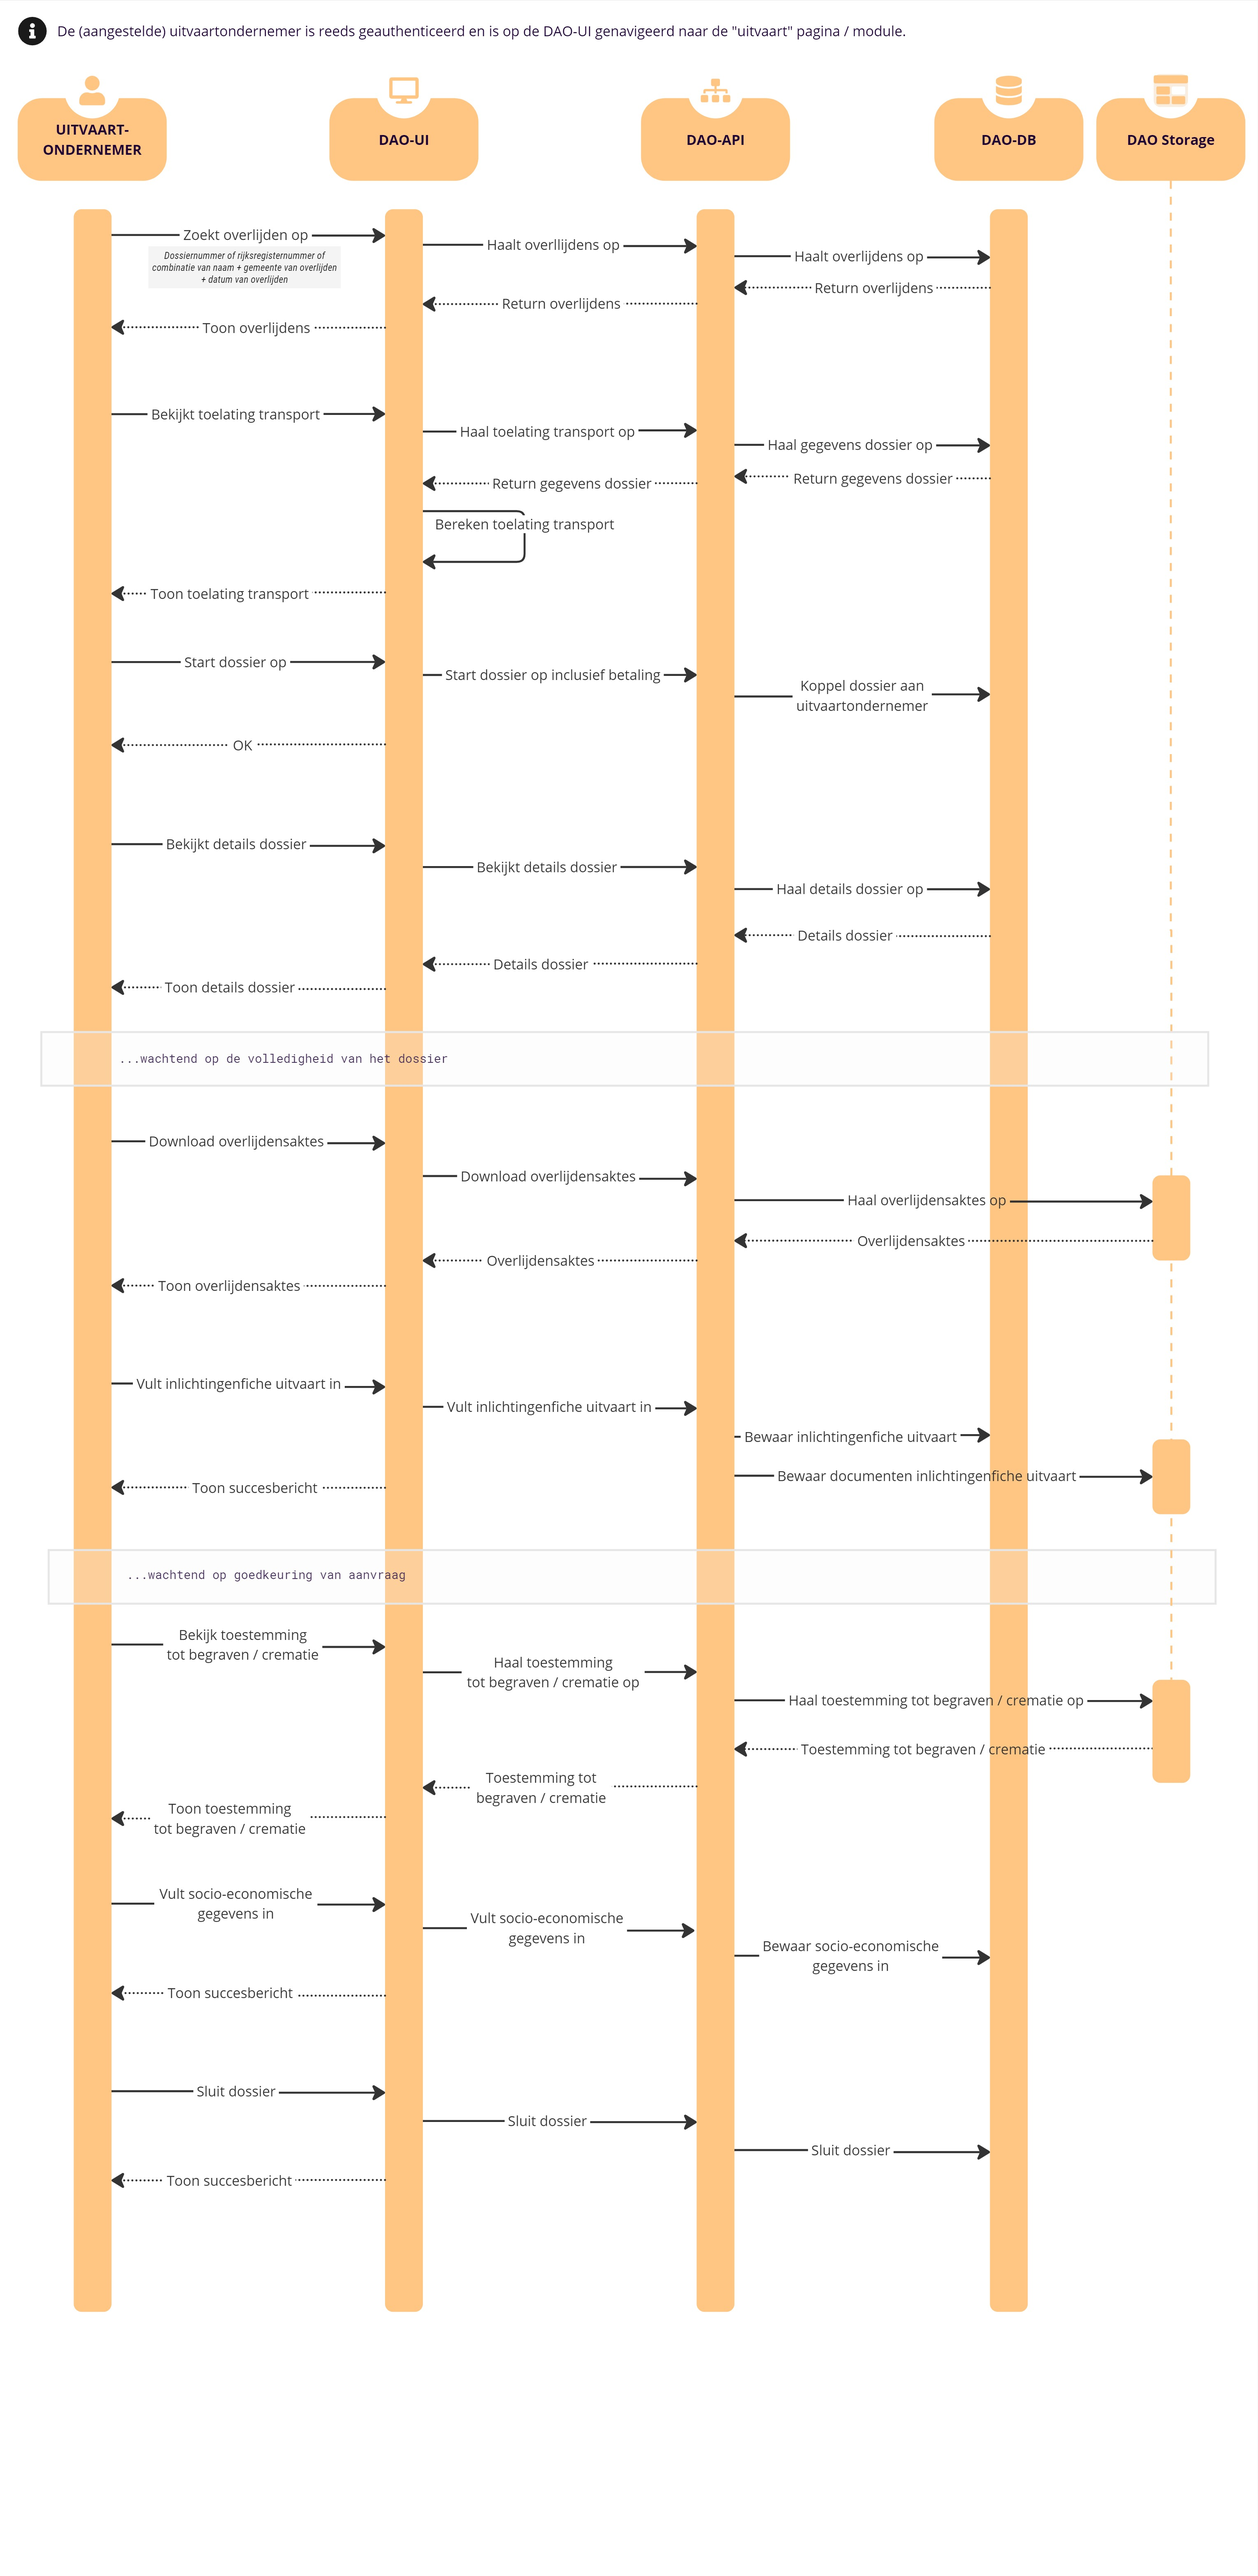
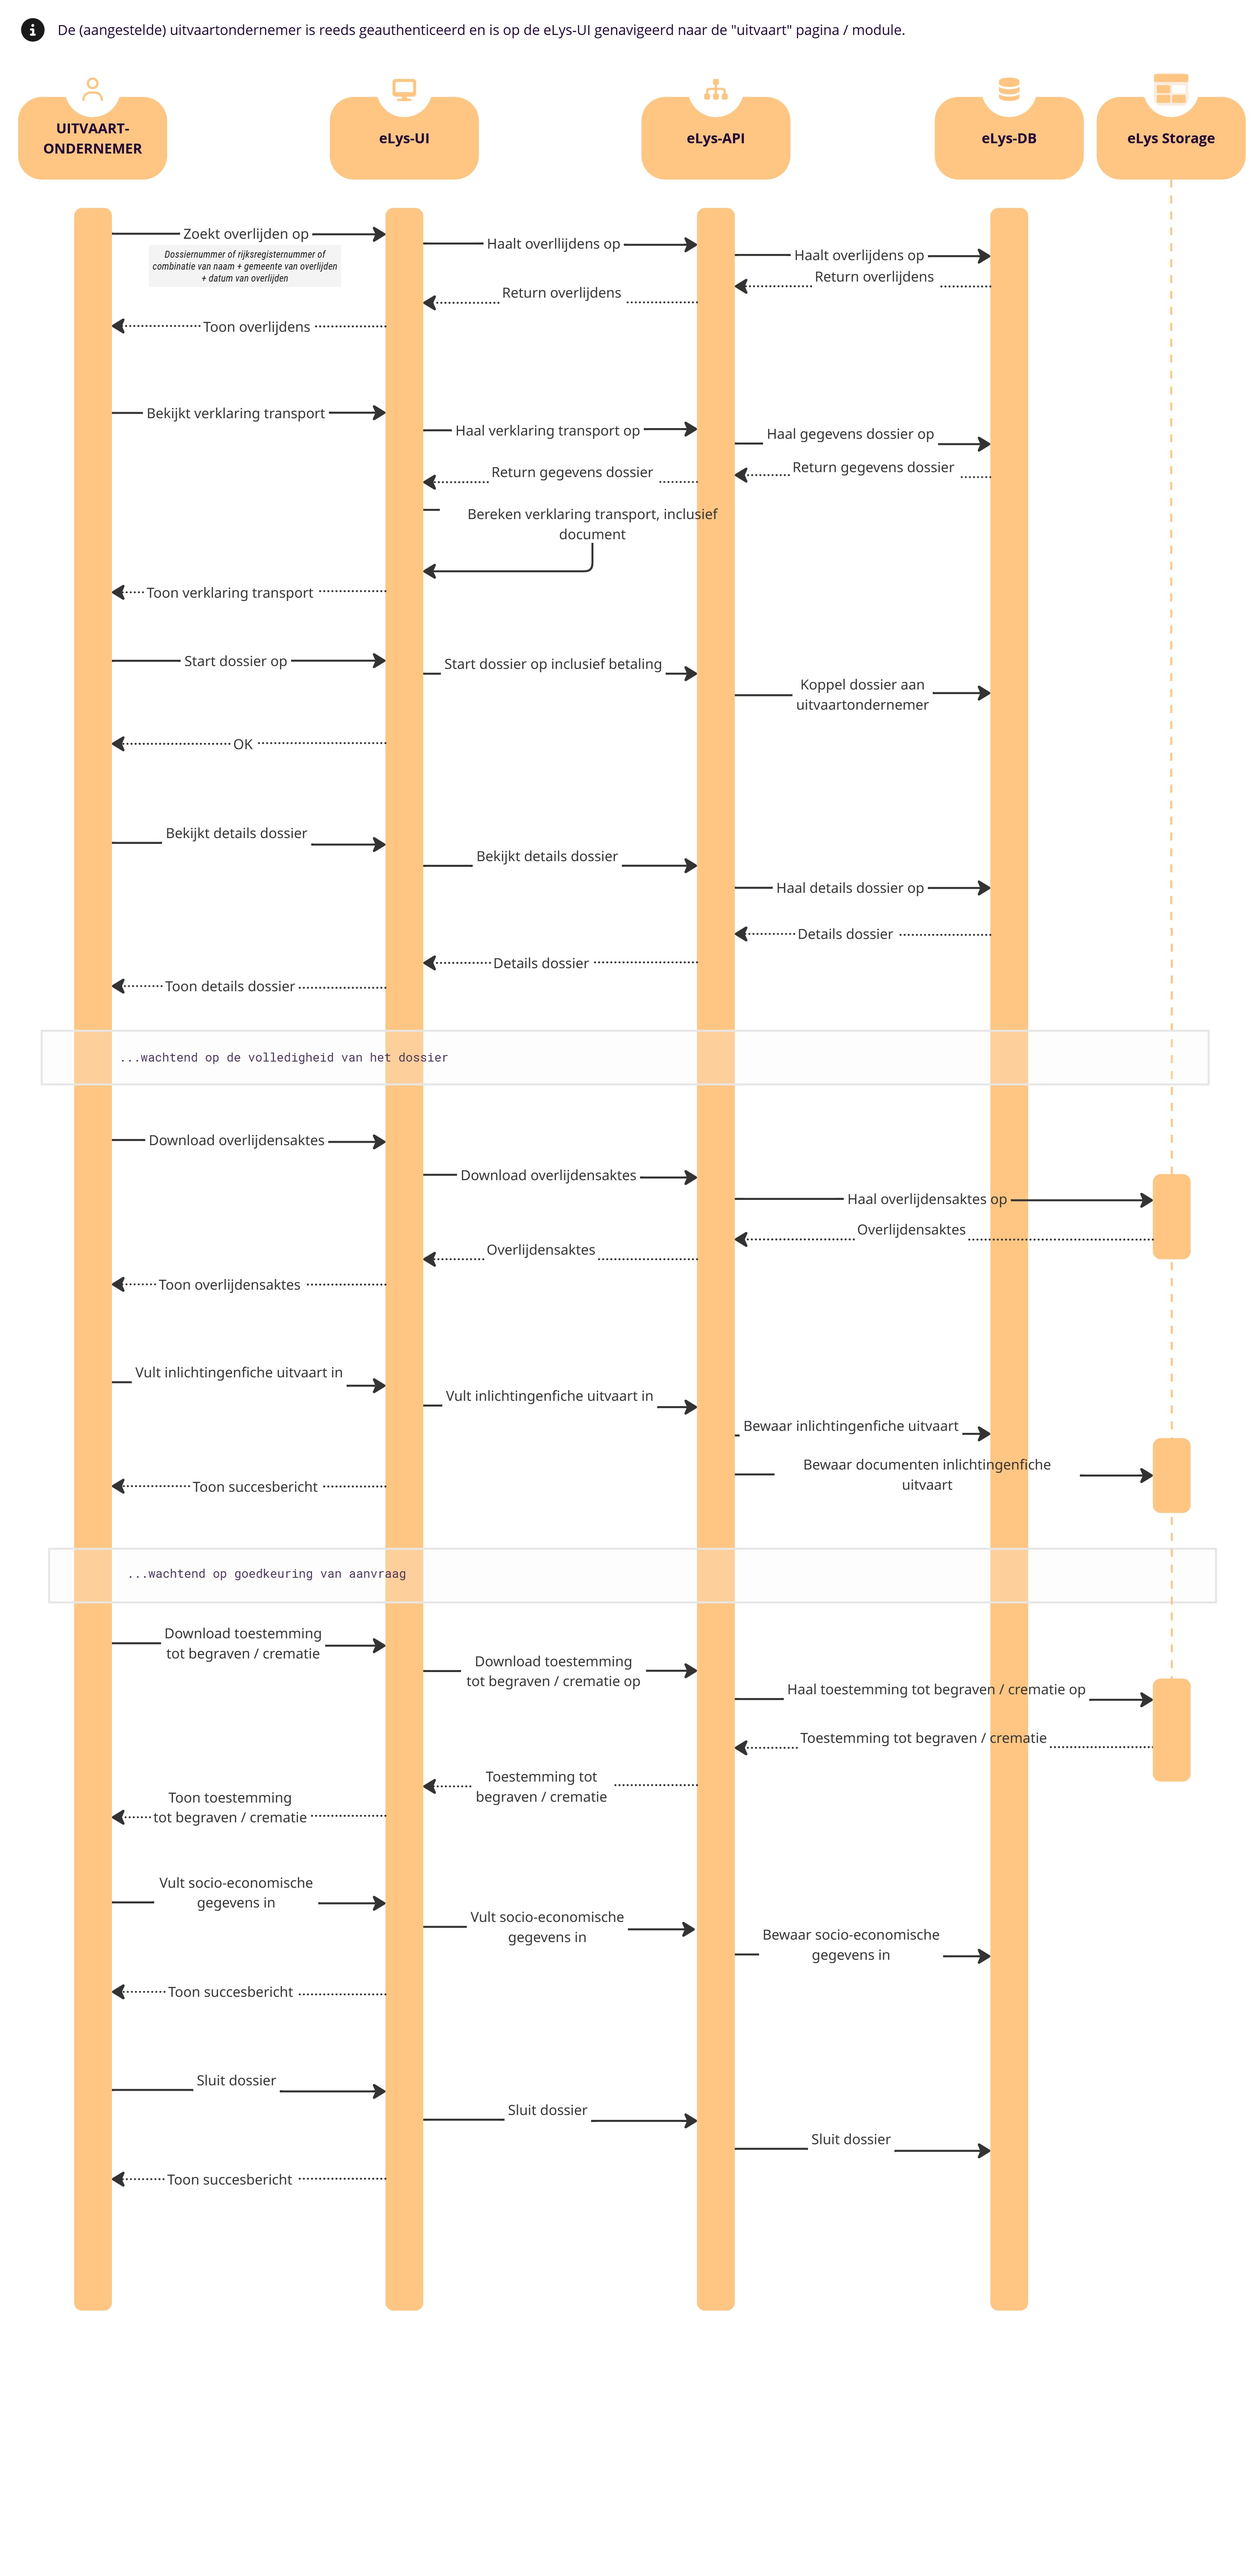
update context pagina

diff --git a/uitvaart/doc/userstories/context.md b/uitvaart/doc/userstories/context.md
@@ -16,14 +16,27 @@ Dit context diagram toont een overzicht van de verschillende actoren en toepassi
 
 ## Toepassing voor de uitvaartondernemer
 
-Hieronder vindt u sequentie of state diagrammen terug die de belangrijkste processen in de toepassing voor de uitvaartondernemer visualiseren.
+Hieronder vindt u een aantal diagrammen terug die de belangrijkste processen in de toepassing voor de uitvaartondernemer visualiseren.
 
 ### Afhandelen dossier
 
+Onderstaande sequentie diagram visualiseert hoe een uitvaartondernemer een dossier afhandelt in de eLys web applicatie. 
+Dit kan gebruikt worden als leidraad voor de eigen toepassing.
+
 ![afhandelen dossier](../diagrams/afhandelen-dossier.jpg)
+
+### Invullen inlichtingenfiche
+
+Onderstaande beslissingsboom toont hoe de verschillende keuzen in de inlichtingenfiche zijn opgebouwd in de eLys web applicatie.
+
+![invullen inlichtingenfiche](../diagrams/inlichtingenfiche.jpg)
 
 ### Dossier statussen
 
+Een dossier kan bij de uitvaart volgende statussen doorlopen.
+
 ![dossier statussen uo](../../../static/statussen-dossier-uo.jpg)
+
+Ter info, het dossier doorloopt aparte statussen bij het lokaal bestuur:
 
 ![dossier statussen lb](../../../static/statussen-dossier-lb.png)
